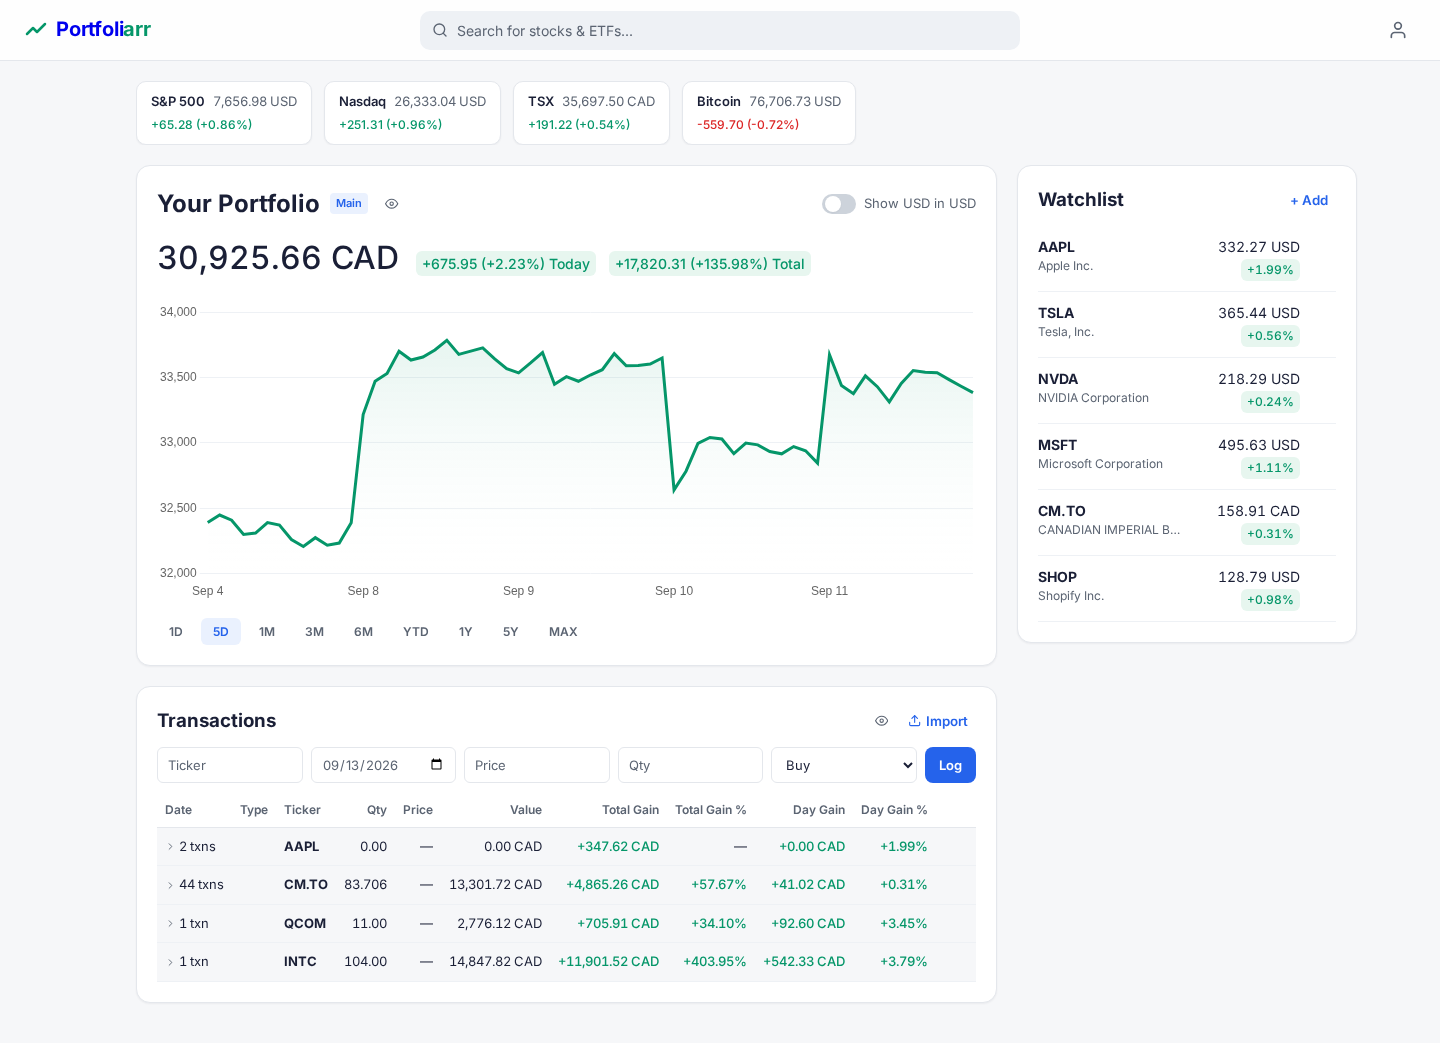
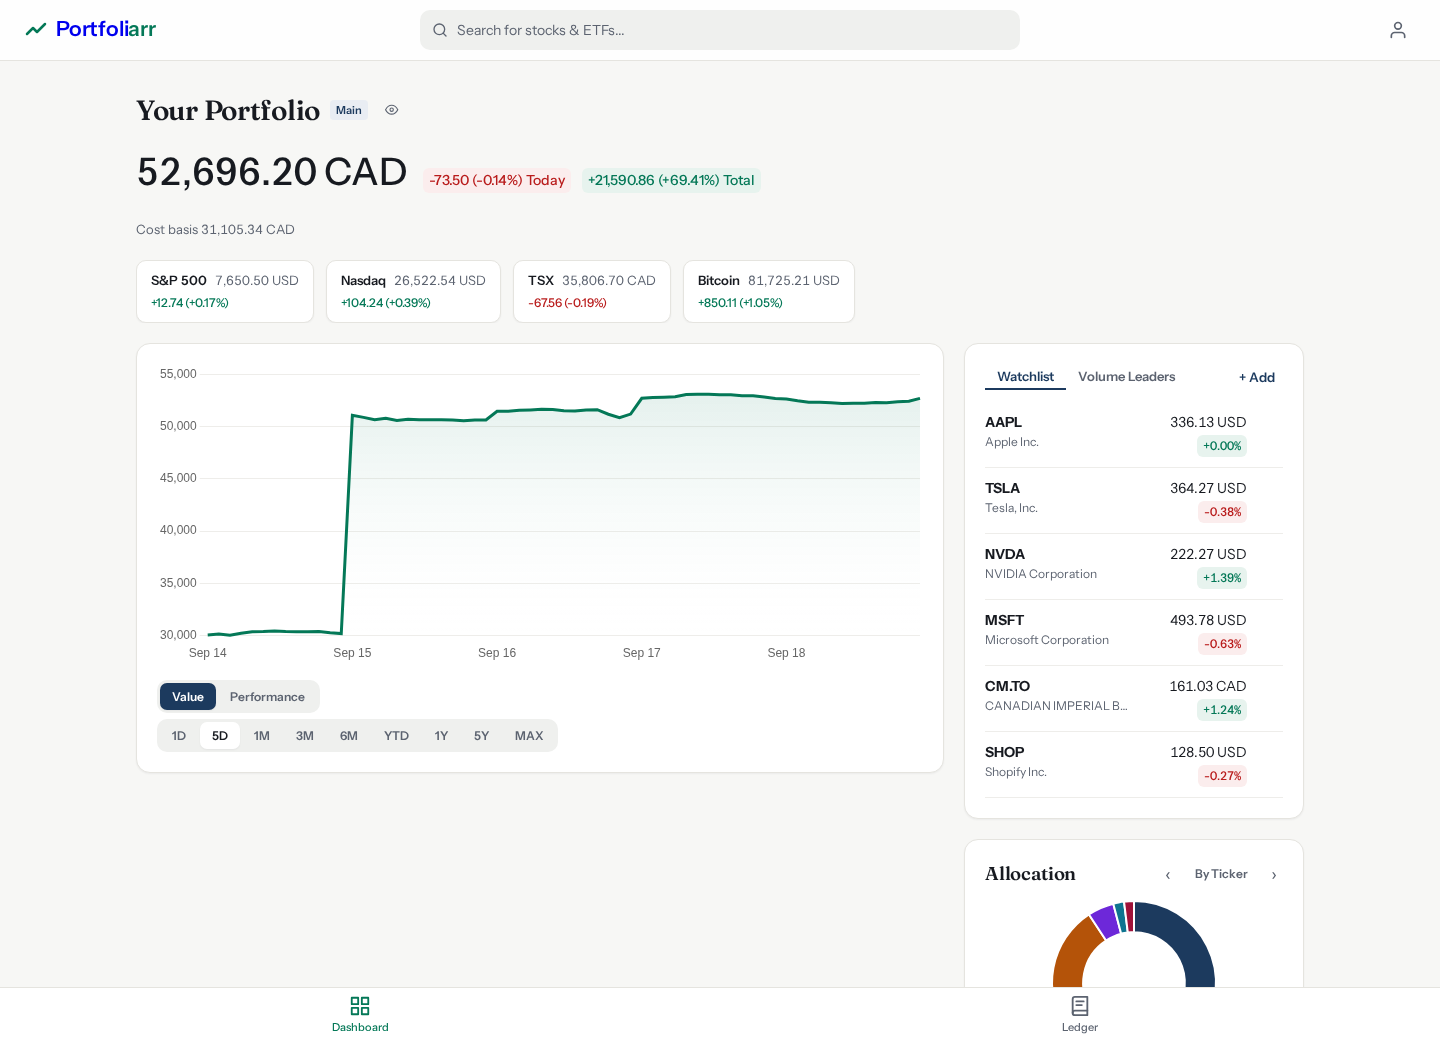
Fix stale README page details and retake dashboard screenshots

diff --git a/README.md b/README.md
@@ -8,10 +8,10 @@ Prices and data come from [Yahoo Finance](https://finance.yahoo.com/) through th
 
 ## Pages
 
-- **`/` Dashboard** — value summary strip, holdings table (qty, avg cost, current price, market value, unrealized P/L), portfolio-value chart with a time-weighted Performance view, an allocation donut carousel (by sector, country, type, cap, currency), index chips, a watchlist, and a ticker search bar.
+- **`/` Dashboard** — value summary strip with cost basis, a grouped transactions table (qty, value, total and day gain per ticker), a portfolio-value chart with a time-weighted Performance view, an allocation donut carousel (by ticker, sector, country, type, cap, currency), index chips, a watchlist, and a ticker search bar.
 - **`/ledger` Ledger** — buy/sell transactions with grouping, sorting, editing, and paste import; plus a Closed Sales table showing each sale's realized result in CAD.
-- **`/stock/<symbol>` Stock detail** — large current price, time-segmented chart (1D · 5D · 1M · 6M · YTD · 1Y · 5Y · MAX), basic stats, and buttons to watch or log a transaction.
-- **`/preferences` Preferences** — privacy toggles and display options.
+- **`/stock/<symbol>` Stock detail** — large current price, time-segmented chart (1D · 5D · 1M · 3M · 6M · YTD · 1Y · 5Y · MAX), basic stats, and buttons to watch or log a transaction.
+- **`/preferences` Preferences** — theme (light/dark/system), default ledger sort, and a show-closed-positions toggle. Privacy eye toggles sit on the dashboard and ledger pages.
 
 ## More views
 
